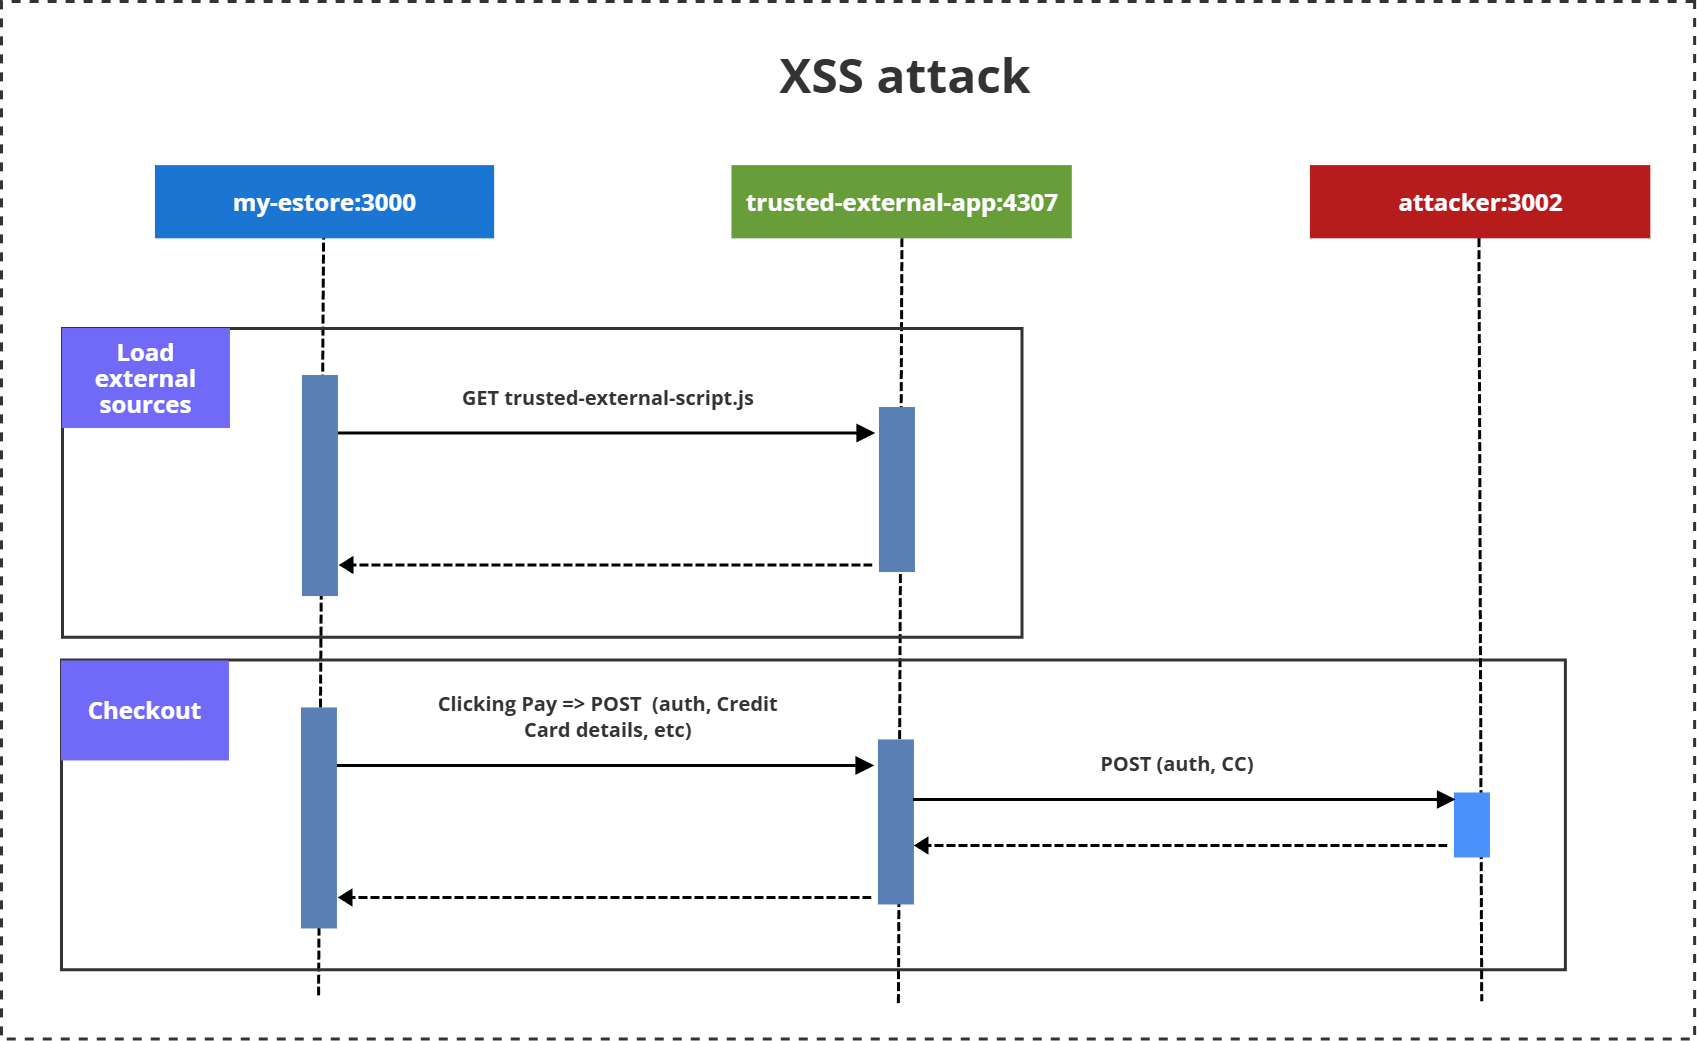
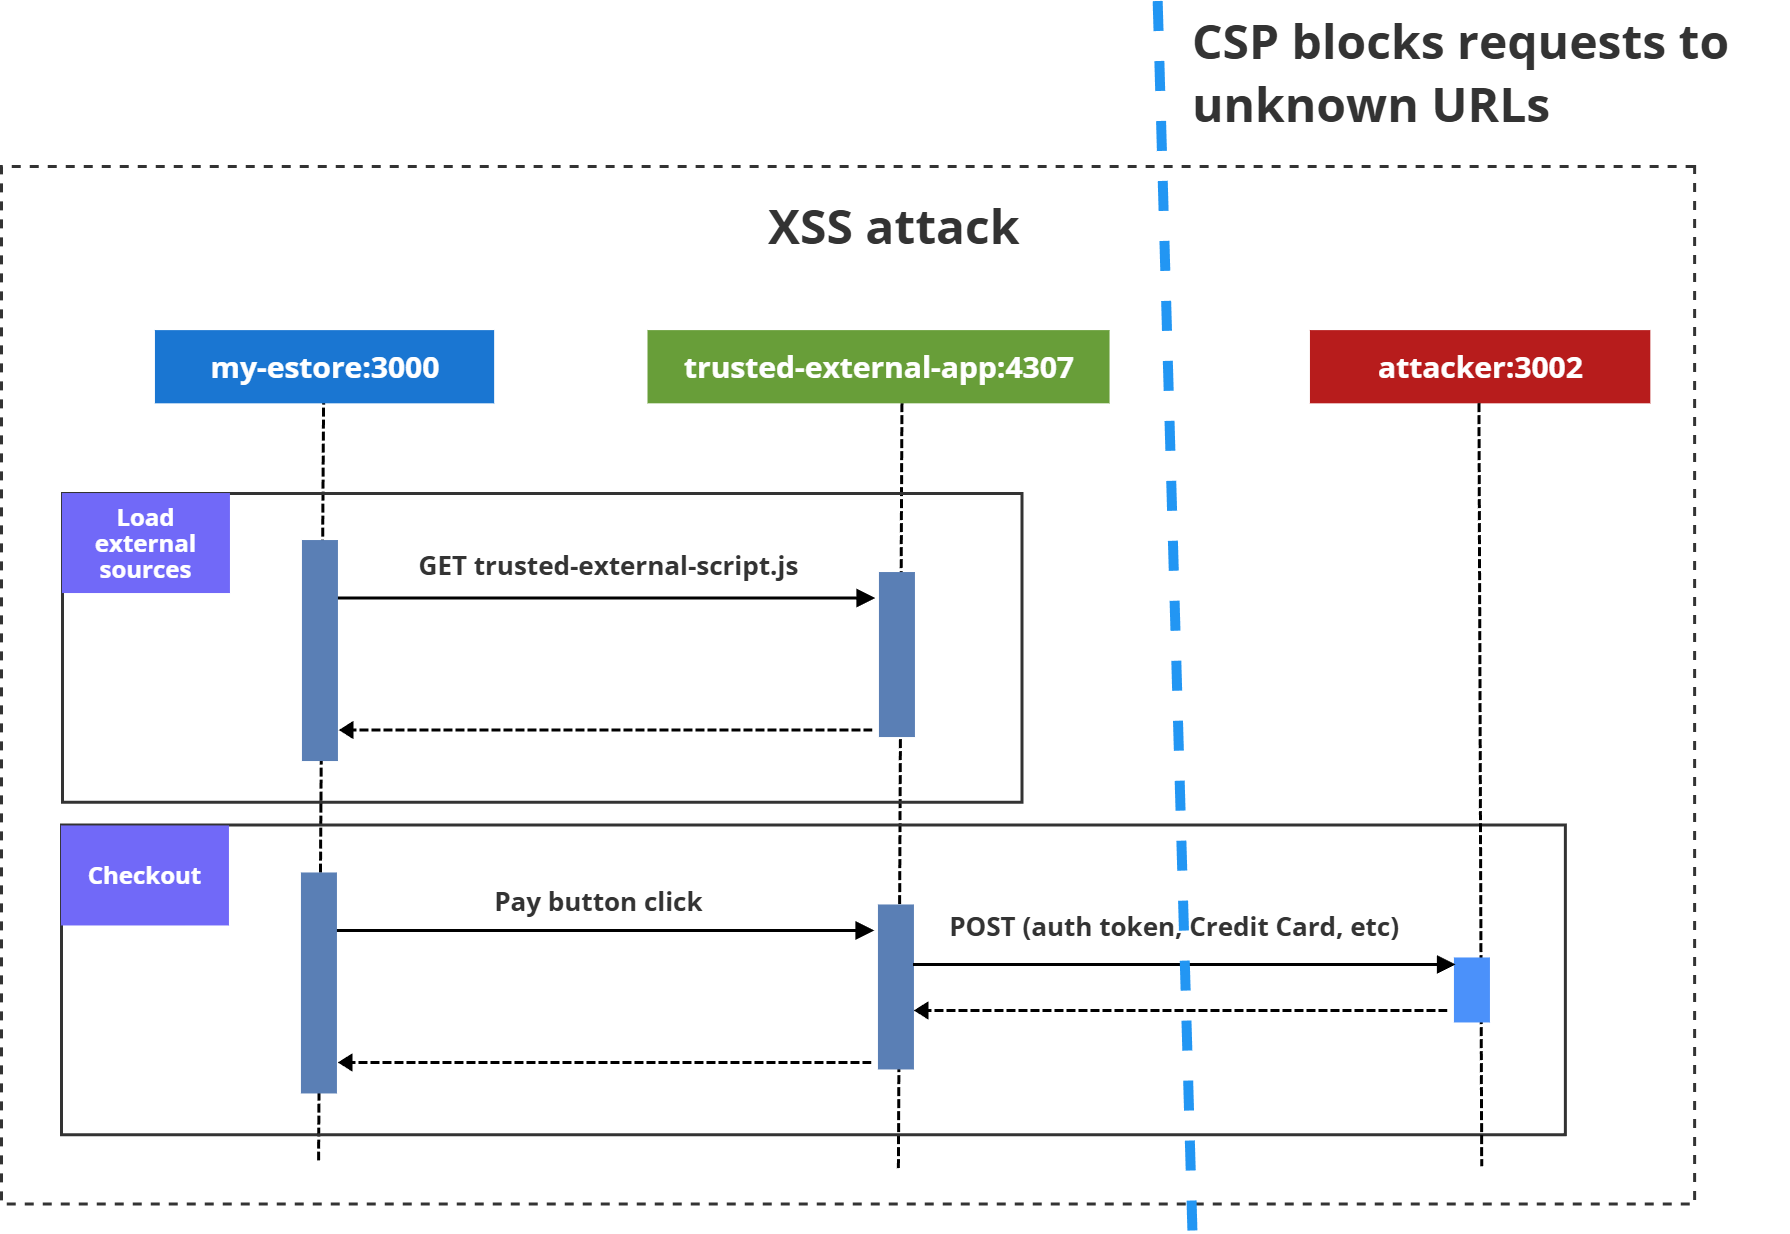
Diag

diff --git a/readme.md b/readme.md
@@ -7,5 +7,9 @@ attacker, trusted-external-app, estore
     npm run start
 ```
 
+## Enable/disable CSP by commenting/uncommenting the my-estore server.js setHeader and index.html meta tag
+
+## Look in the network tab for the attacker POST request and browser/server console for logging of CSP violations
+
 Visit
 http://127.0.0.1:8080/
